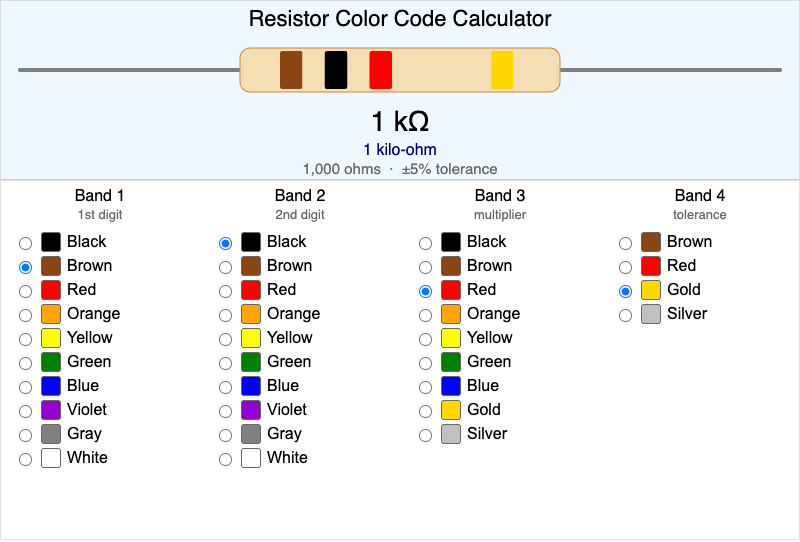
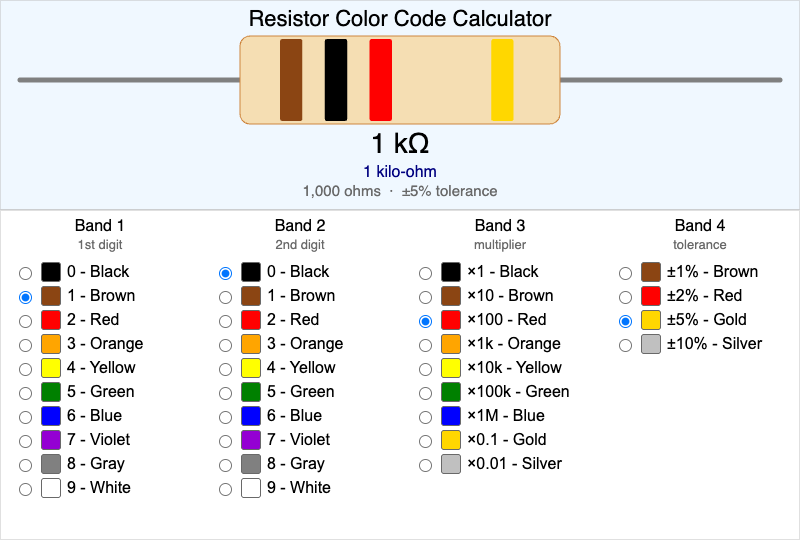
Added infographics

Changed region(s): [[0.0, 0.059, 1.0, 0.9151]]

diff --git a/docs/sims/resistor-color-code-calculator/resistor-color-code-calculator.js b/docs/sims/resistor-color-code-calculator/resistor-color-code-calculator.js
@@ -5,48 +5,49 @@
 
 // Canvas dimensions - responsive width, fixed height
 let canvasWidth = 400;          // Initial width (reset to container width each frame)
-let drawHeight = 180;           // Drawing area: resistor + value readout (top ~33%)
-let controlHeight = 360;        // Control area: four radio-button bands (bottom ~67%)
+let drawHeight = 210;           // Drawing area: resistor + value readout (top ~39%)
+let controlHeight = 330;        // Control area: four radio-button bands (bottom ~61%)
 let canvasHeight = drawHeight + controlHeight;
 let margin = 20;
 let defaultTextSize = 16;
 
 // --- Color reference tables ----------------------------------------------
-// digit: the number the color represents (bands 1 and 2)
-// mult:  the power-of-ten multiplier (band 3)
-// tol:   the tolerance percentage (band 4)
-// css:   a named CSS color used both for the canvas band and the HTML swatch
+// digit:      the number the color represents (bands 1 and 2)
+// multiplier: the power-of-ten multiplier (band 3)
+// tol:        the tolerance percentage (band 4)
+// css:        a named CSS color used both for the canvas band and the HTML swatch
+// label:      the text shown on the radio option (value-first, e.g. "0 - Black")
 
 const DIGIT_COLORS = [
-  { name: 'Black',  digit: 0, css: 'black' },
-  { name: 'Brown',  digit: 1, css: 'saddlebrown' },
-  { name: 'Red',    digit: 2, css: 'red' },
-  { name: 'Orange', digit: 3, css: 'orange' },
-  { name: 'Yellow', digit: 4, css: 'yellow' },
-  { name: 'Green',  digit: 5, css: 'green' },
-  { name: 'Blue',   digit: 6, css: 'blue' },
-  { name: 'Violet', digit: 7, css: 'darkviolet' },
-  { name: 'Gray',   digit: 8, css: 'gray' },
-  { name: 'White',  digit: 9, css: 'white' }
+  { name: 'Black',  digit: 0, css: 'black',      label: '0 - Black' },
+  { name: 'Brown',  digit: 1, css: 'saddlebrown', label: '1 - Brown' },
+  { name: 'Red',    digit: 2, css: 'red',        label: '2 - Red' },
+  { name: 'Orange', digit: 3, css: 'orange',     label: '3 - Orange' },
+  { name: 'Yellow', digit: 4, css: 'yellow',     label: '4 - Yellow' },
+  { name: 'Green',  digit: 5, css: 'green',      label: '5 - Green' },
+  { name: 'Blue',   digit: 6, css: 'blue',       label: '6 - Blue' },
+  { name: 'Violet', digit: 7, css: 'darkviolet', label: '7 - Violet' },
+  { name: 'Gray',   digit: 8, css: 'gray',       label: '8 - Gray' },
+  { name: 'White',  digit: 9, css: 'white',      label: '9 - White' }
 ];
 
 const MULT_COLORS = [
-  { name: 'Black',  mult: 1,       css: 'black' },
-  { name: 'Brown',  mult: 10,      css: 'saddlebrown' },
-  { name: 'Red',    mult: 100,     css: 'red' },
-  { name: 'Orange', mult: 1000,    css: 'orange' },
-  { name: 'Yellow', mult: 10000,   css: 'yellow' },
-  { name: 'Green',  mult: 100000,  css: 'green' },
-  { name: 'Blue',   mult: 1000000, css: 'blue' },
-  { name: 'Gold',   mult: 0.1,     css: 'gold' },
-  { name: 'Silver', mult: 0.01,    css: 'silver' }
+  { name: 'Black',  multiplier: 1,       css: 'black',      label: '×1 - Black' },
+  { name: 'Brown',  multiplier: 10,      css: 'saddlebrown', label: '×10 - Brown' },
+  { name: 'Red',    multiplier: 100,     css: 'red',        label: '×100 - Red' },
+  { name: 'Orange', multiplier: 1000,    css: 'orange',     label: '×1k - Orange' },
+  { name: 'Yellow', multiplier: 10000,   css: 'yellow',     label: '×10k - Yellow' },
+  { name: 'Green',  multiplier: 100000,  css: 'green',      label: '×100k - Green' },
+  { name: 'Blue',   multiplier: 1000000, css: 'blue',       label: '×1M - Blue' },
+  { name: 'Gold',   multiplier: 0.1,     css: 'gold',       label: '×0.1 - Gold' },
+  { name: 'Silver', multiplier: 0.01,    css: 'silver',     label: '×0.01 - Silver' }
 ];
 
 const TOL_COLORS = [
-  { name: 'Brown',  tol: 1,  css: 'saddlebrown' },
-  { name: 'Red',    tol: 2,  css: 'red' },
-  { name: 'Gold',   tol: 5,  css: 'gold' },
-  { name: 'Silver', tol: 10, css: 'silver' }
+  { name: 'Brown',  tol: 1,  css: 'saddlebrown', label: '±1% - Brown' },
+  { name: 'Red',    tol: 2,  css: 'red',         label: '±2% - Red' },
+  { name: 'Gold',   tol: 5,  css: 'gold',        label: '±5% - Gold' },
+  { name: 'Silver', tol: 10, css: 'silver',      label: '±10% - Silver' }
 ];
 
 // Radio controls for the four bands
@@ -75,7 +76,7 @@ function setup() {
 function buildBandRadio(colorList, defaultName) {
   let r = createRadio();
   for (let c of colorList) {
-    r.option(c.name);
+    r.option(c.name, c.label);   // value stays the color name; label shows the value first
   }
   r.selected(defaultName);
 
@@ -132,12 +133,12 @@ function draw() {
   // Read the current band selections
   let d1 = lookup(DIGIT_COLORS, band1Radio.value(), 'digit');
   let d2 = lookup(DIGIT_COLORS, band2Radio.value(), 'digit');
-  let mult = lookup(MULT_COLORS, band3Radio.value(), 'mult');
+  let multiplier = lookup(MULT_COLORS, band3Radio.value(), 'multiplier');
   let tol = lookup(TOL_COLORS, band4Radio.value(), 'tol');
-  let ohms = (d1 * 10 + d2) * mult;
+  let ohms = (d1 * 10 + d2) * multiplier;
 
   // Draw the resistor with the four selected band colors
-  drawResistor(canvasWidth / 2, 70,
+  drawResistor(canvasWidth / 2, 80,
     colorCss(DIGIT_COLORS, band1Radio.value()),
     colorCss(DIGIT_COLORS, band2Radio.value()),
     colorCss(MULT_COLORS, band3Radio.value()),
@@ -149,13 +150,13 @@ function draw() {
   noStroke();
   fill('black');
   textSize(28);
-  text(v.big, canvasWidth / 2, 108);
+  text(v.big, canvasWidth / 2, 130);
   textSize(16);
   fill('navy');
-  text(v.full, canvasWidth / 2, 142);
+  text(v.full, canvasWidth / 2, 164);
   textSize(15);
   fill('dimgray');
-  text(v.raw + ' ohms  ·  ±' + tol + '% tolerance', canvasWidth / 2, 162);
+  text(v.raw + ' ohms  ·  ±' + tol + '% tolerance', canvasWidth / 2, 184);
 
   // Column headers for the control region
   drawColumnHeaders();
@@ -168,13 +169,13 @@ function draw() {
 // Draw a horizontal resistor centered at (cx, cy) with four band colors.
 function drawResistor(cx, cy, c1, c2, c3, c4) {
   let bodyW = min(canvasWidth * 0.5, 320);
-  let bodyH = 44;
+  let bodyH = 88;
   let bodyX = cx - bodyW / 2;
   let bodyY = cy - bodyH / 2;
 
   // Leads (wires) extending to the left and right
   stroke('gray');
-  strokeWeight(4);
+  strokeWeight(5);
   line(margin, cy, bodyX + 6, cy);
   line(bodyX + bodyW - 6, cy, canvasWidth - margin, cy);
   strokeWeight(1);
@@ -223,7 +224,7 @@ function drawColumnHeaders() {
 
 // --- Helpers --------------------------------------------------------------
 
-// Look up a numeric property (digit/mult/tol) for a color name in a table.
+// Look up a numeric property (digit/multiplier/tol) for a color name in a table.
 function lookup(table, name, prop) {
   for (let c of table) {
     if (c.name === name) return c[prop];

diff --git a/docs/chapters/06-digital-io-interrupts/index.md b/docs/chapters/06-digital-io-interrupts/index.md
@@ -48,6 +48,12 @@ This chapter builds on concepts from:
     ![Monty waves hello](../../img/mascot/welcome.png){ class="mascot-admonition-img" }
     This is the chapter where your programs reach out and touch the real world. You will blink an LED from a Python command, read a button press, and — by the end of the chapter — have your Pico react to a button press instantly using interrupts. Grab your breadboard and let's go!
 
+## Pinout Diagram
+
+![](../../img/pi-pico-pinout.png)
+
+![](./pico-pin-infographic.png)
+
 ## Digital Signals: HIGH and LOW
 
 In the physical world, a GPIO pin has exactly two possible states:

diff --git a/docs/chapters/14-neopixels-displays/index.md b/docs/chapters/14-neopixels-displays/index.md
@@ -61,6 +61,8 @@ This chapter builds on concepts from:
     ![Monty waves hello](../../img/mascot/welcome.png){ class="mascot-admonition-img" }
     Light up the world with 16 million colors! NeoPixels are one of the most satisfying components in all of physical computing — you write three numbers and a single LED glows any color you can imagine. Then we will explore the simpler but practical world of 7-segment displays, LED matrices, and character LCDs. Let's make your projects glow!
 
+![LED Types Infographic](./led-types-infographic.png)
+
 ## NeoPixel LEDs — One Wire, 16 Million Colors
 
 A **NeoPixel LED** (manufacturer name: WS2812B) is a full-color RGB LED with a tiny control chip built into its package. Each pixel contains red, green, and blue sub-LEDs, each controllable from 0 to 255. That gives 256 × 256 × 256 = 16.7 million possible colors.

diff --git a/docs/chapters/19-wireless-iot/index.md b/docs/chapters/19-wireless-iot/index.md
@@ -53,6 +53,8 @@ This chapter builds on concepts from:
     ![Monty waves hello](../../img/mascot/welcome.png){ class="mascot-admonition-img" }
     Your Pico W has a Wi-Fi radio built in — and that means the entire internet is one import away. Today you will fetch real weather data, sync the time from a global server, and let anyone on your local network control your NeoPixels from a browser. The Internet of Things starts here!
 
+![](./iot-architecture-infographic.png)
+
 ## Wi-Fi Basics
 
 **Wi-Fi** is a wireless networking standard that lets devices communicate over radio waves. Two key pieces of information connect your Pico W to a network:

diff --git a/docs/posters/input-devices.md b/docs/posters/input-devices.md
@@ -3,6 +3,8 @@
 Audience: students choosing how to accept user input in their MicroPython projects.
 Chapters: 6 — Digital I/O · 7 — Analog & ADC · 11 — Encoders, Touch & Audio
 
+![](../chapters/06-digital-io-interrupts/input-devices-infographic.png)
+
 ## Image Prompt
 
 !!! prompt

diff --git a/docs/sims/resistor-color-code-calculator/index.md b/docs/sims/resistor-color-code-calculator/index.md
@@ -15,7 +15,7 @@ quality_score: 0
 
 [Run the Resistor Color Code Calculator MicroSim Fullscreen](./main.html){ .md-button .md-button--primary }
 <br/>
-[Edit in the p5.js Editor](https://editor.p5js.org/)
+[Edit in the Resistor Color Code Calculator MicroSim Using the p5.js Editor](https://editor.p5js.org/dmccreary/sketches/M1WMd5GZF)
 
 ## About This MicroSim
 